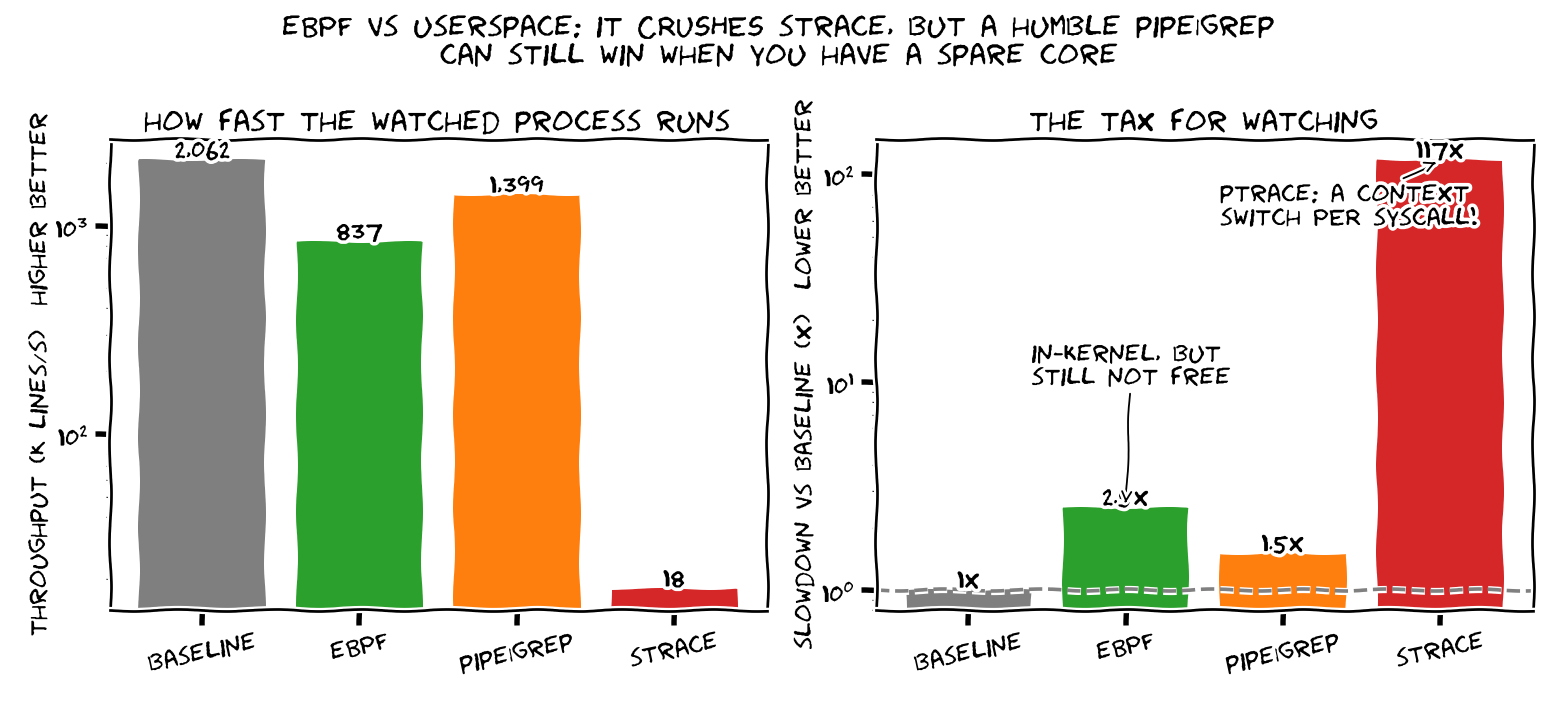
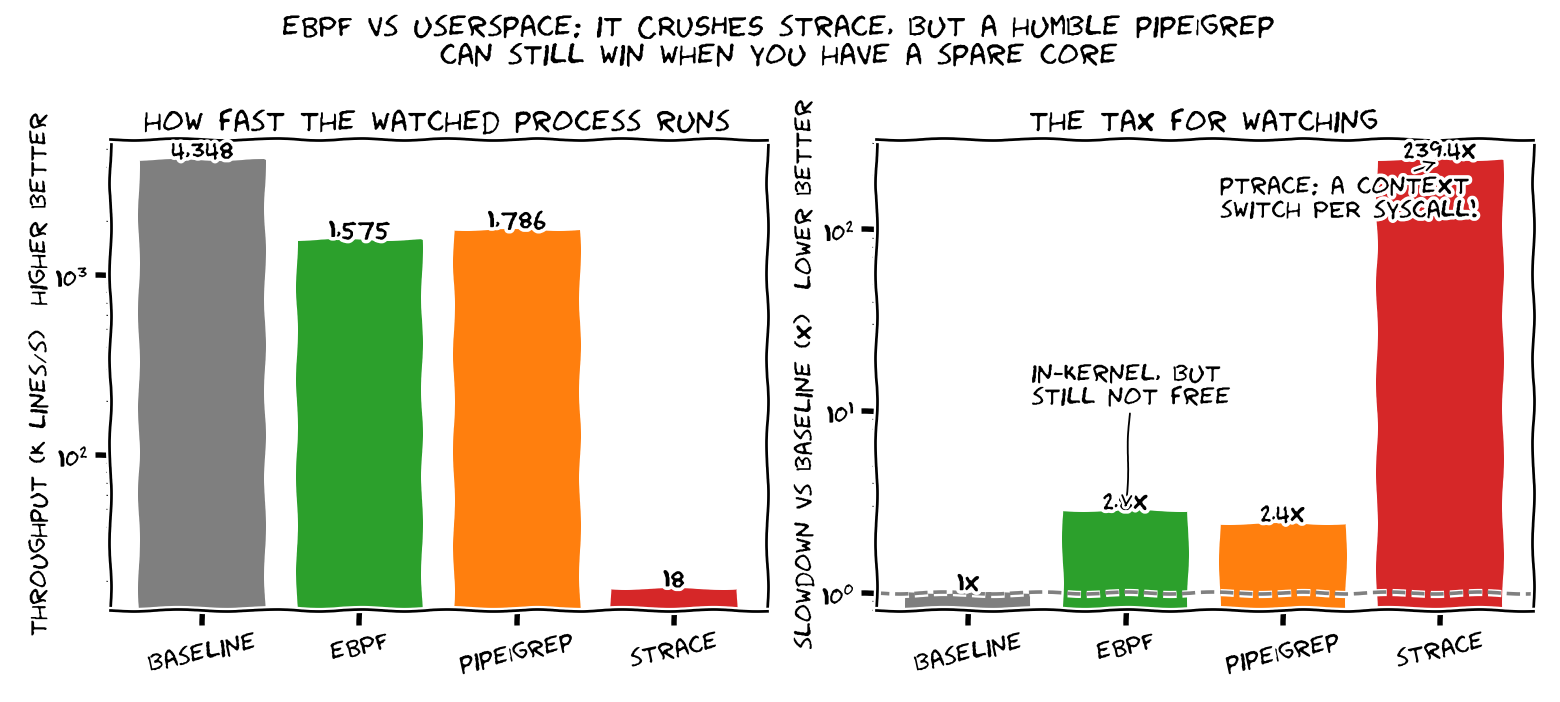
ci: refresh benchmark results [skip ci]

diff --git a/README.md b/README.md
@@ -32,10 +32,10 @@ _Generated by CI on 2026-06-17, kernel `6.17.0-1018-azure`, 4 CPUs. Workload: 20
 
 | method | wall (ms) | throughput (K lines/s) | slowdown vs baseline | ERROR count correct? |
 |---|--:|--:|--:|:--:|
-| baseline (unobserved) | 97 | 2062 | 1.0× | – |
-| **eBPF (in-kernel)** | 239 | 837 | 2.5× | yes |
-| pipe \| grep (userspace) | 143 | 1399 | 1.5× | yes |
-| strace / ptrace (userspace) | 11349 | 18 | 117.0× | yes |
+| baseline (unobserved) | 46 | 4348 | 1.0× | – |
+| **eBPF (in-kernel)** | 127 | 1575 | 2.8× | yes |
+| pipe \| grep (userspace) | 112 | 1786 | 2.4× | yes |
+| strace / ptrace (userspace) | 11011 | 18 | 239.4× | yes |
 
 <!-- RESULTS:END -->
 
